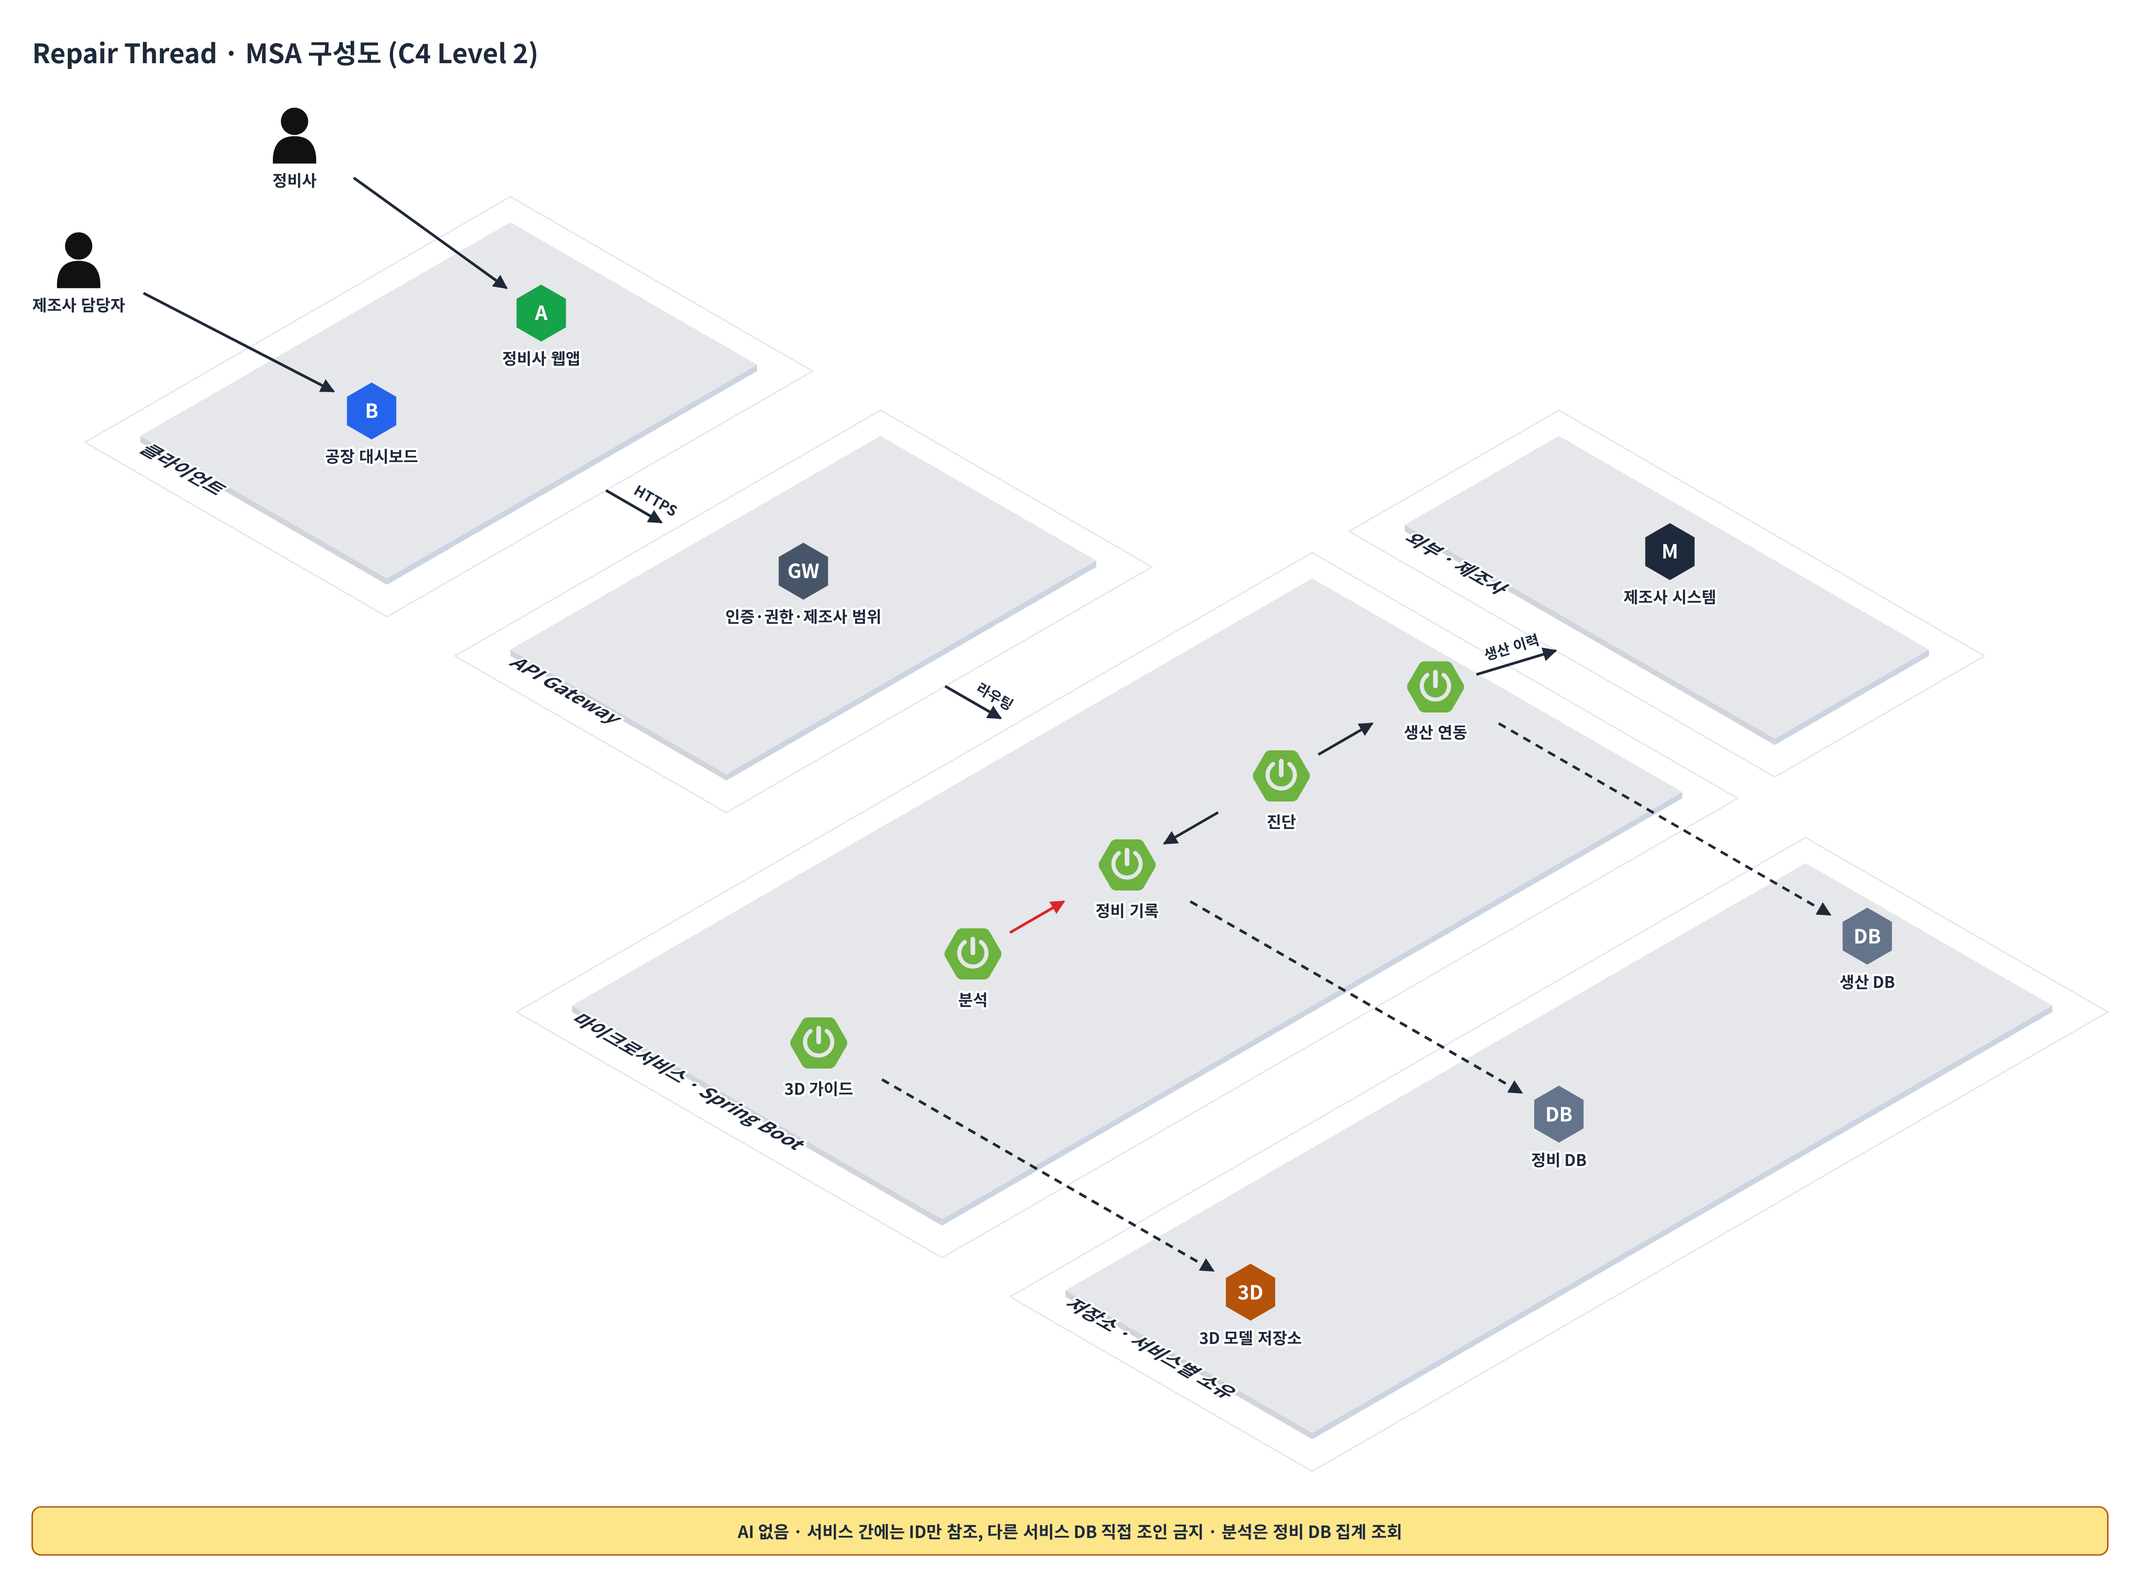
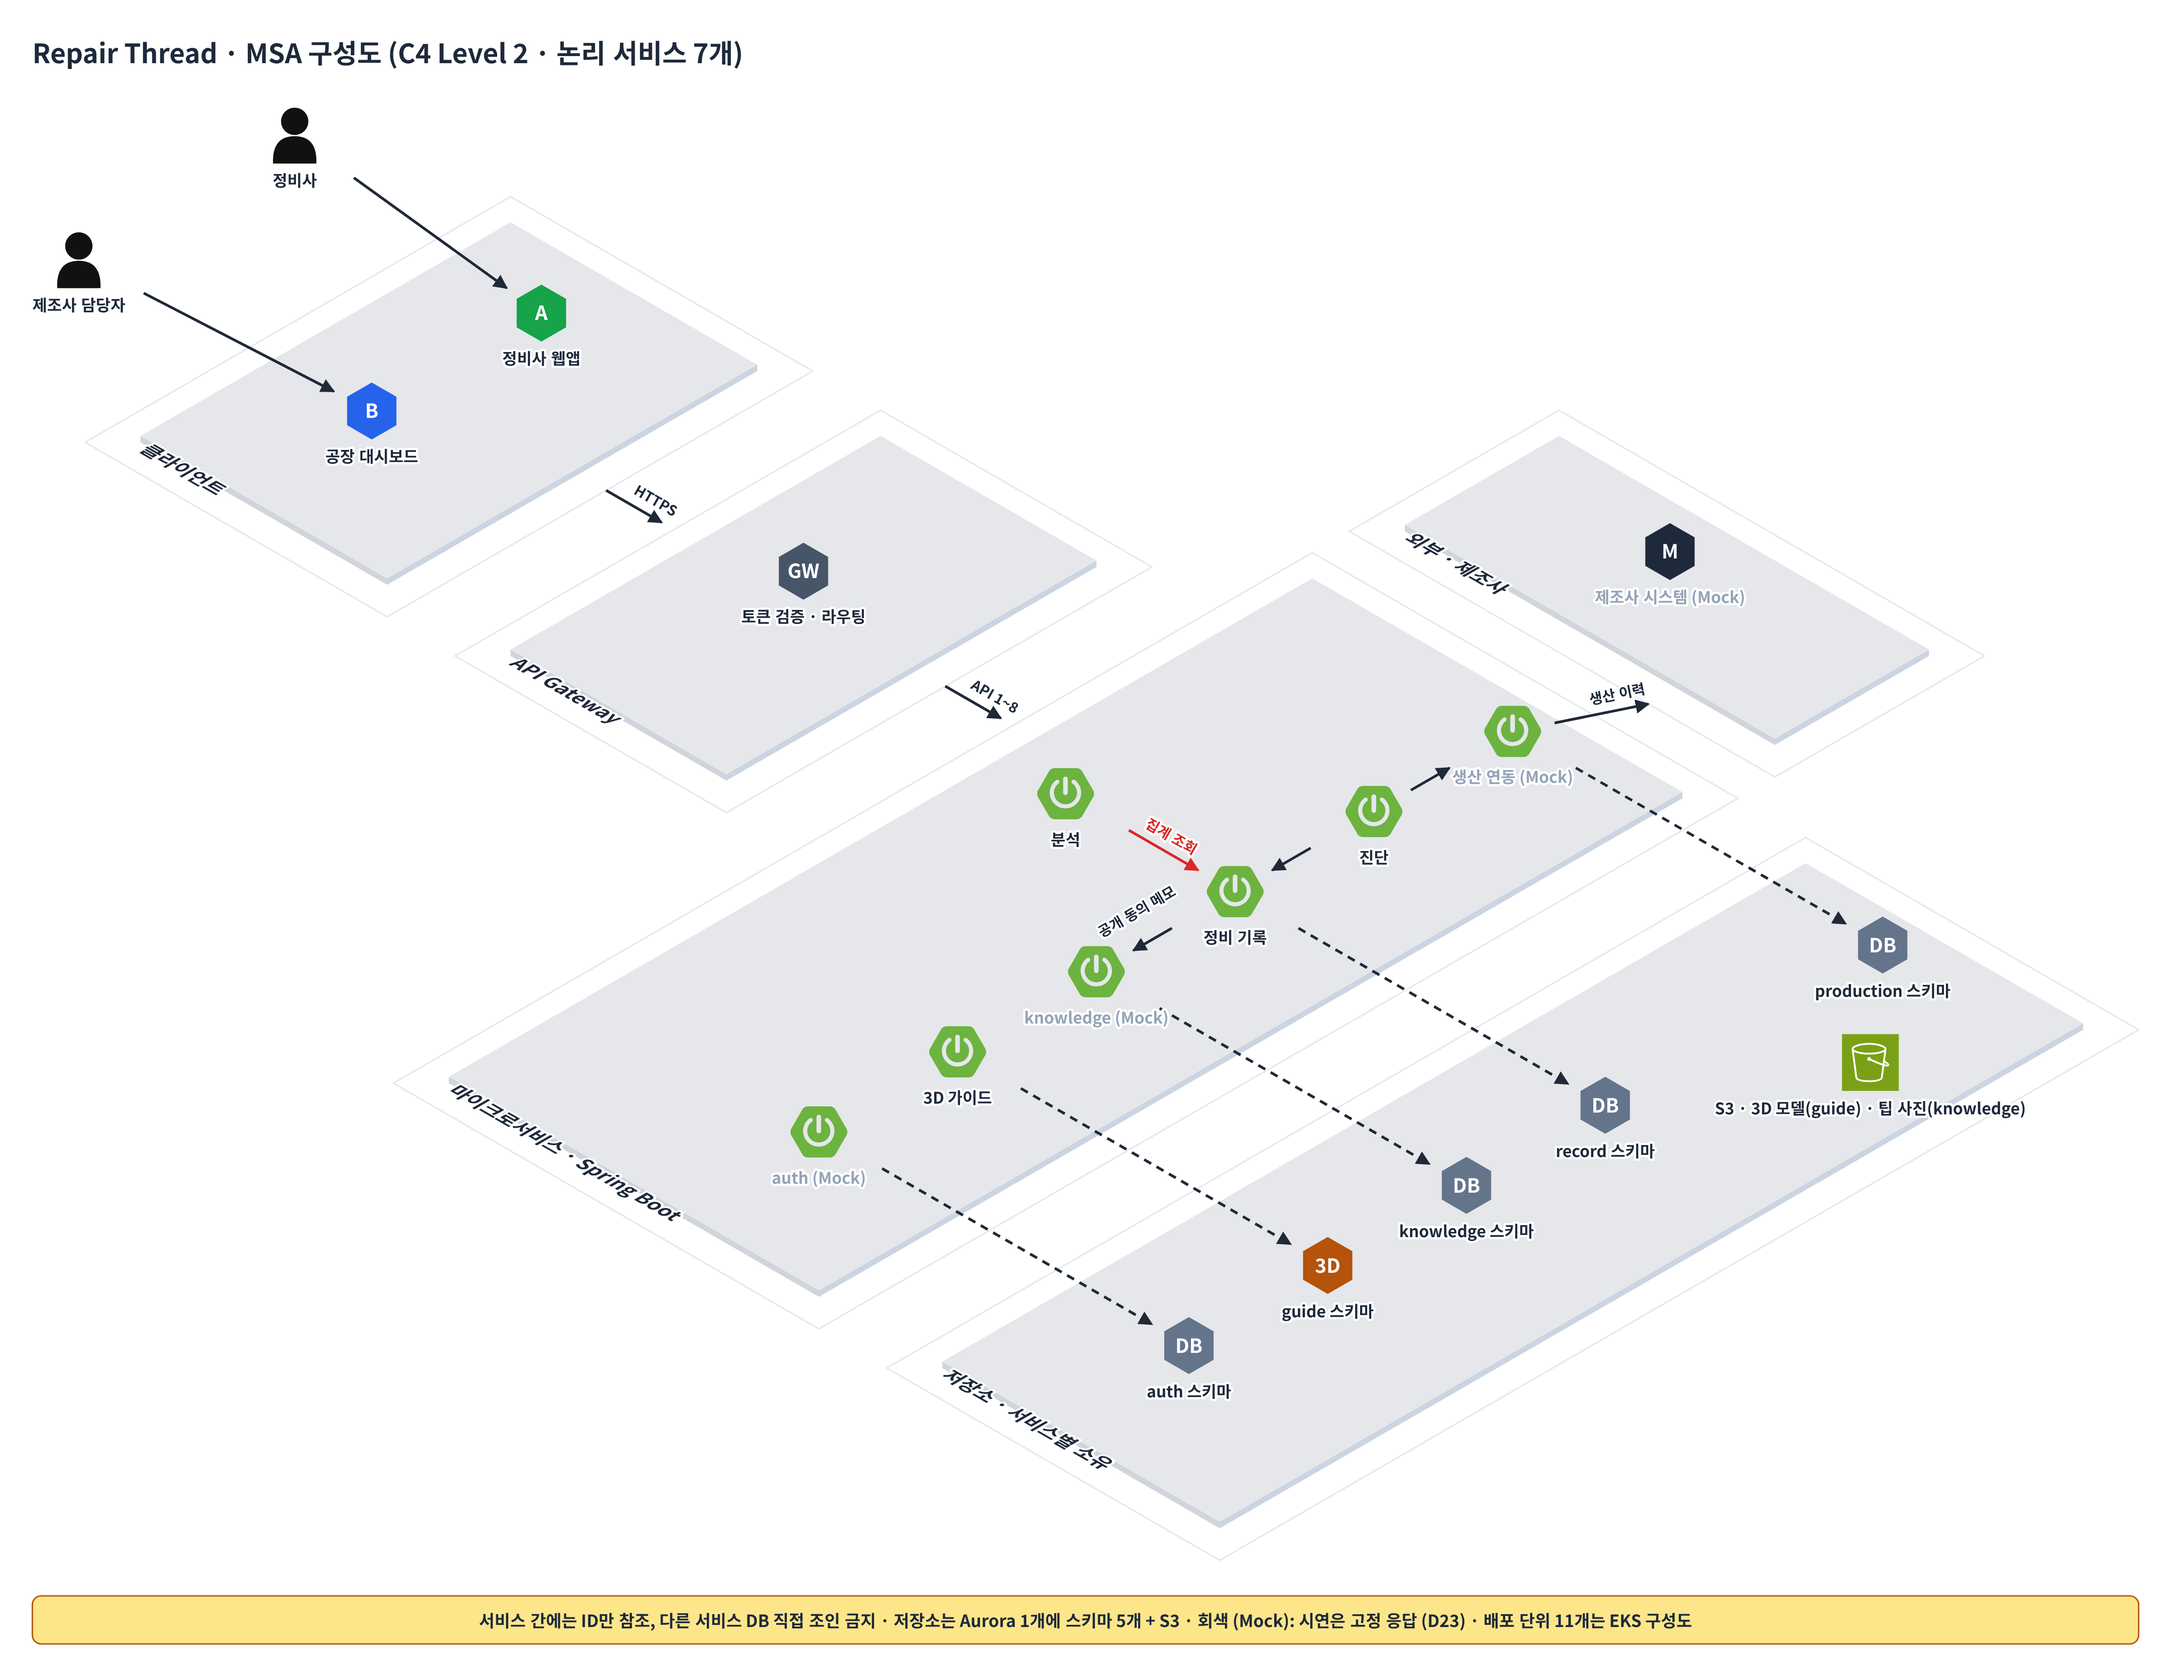
docs: MSA 구성도에 knowledge·auth와 Mock 구분 반영 (D22·D23)
- 논리 서비스 5개 → 7개 (knowledge, auth 추가), Gateway는 토큰 검증·라우팅
- 정비 기록 → knowledge(공개 동의 메모), 분석 → 정비 기록(집계 조회) 라벨
- 저장소를 서비스별 스키마 5개 + S3(3D 모델·팁 사진)로
- Mock 서비스는 회색 글자, 캡션에 범례. README 설명과 Mermaid 텍스트 버전 갱신

Closes #14

Claude-Session: https://claude.ai/code/session_014R51HkAxQNUEAujjDtMXPZ

diff --git a/README.md b/README.md
@@ -162,9 +162,11 @@ Tesla Model 3, 고장코드 B1A24 (리어 왼쪽 도어 래치, 예시 코드). 
 
 ### 아키텍처 (C4 Level 2)
 
-![MSA 구성도: 클라이언트, API Gateway, Spring Boot 마이크로서비스 5개, 서비스별 저장소, 외부 제조사 시스템](docs/images/architecture-msa.png)
+![MSA 구성도: 클라이언트, API Gateway, Spring Boot 마이크로서비스 7개(회색은 Mock), 서비스별 스키마와 S3, 외부 제조사 시스템](docs/images/architecture-msa.png)
 
-- 마이크로서비스 5개 (배포 단위로는 auth·knowledge를 더 나눠 11개, D22). 서비스 간에는 ID만 참조하고 다른 서비스 DB를 직접 조인하지 않음
+- 논리 서비스 7개: 진단, 3D 가이드, 정비 기록, 분석, 생산 연동에 auth와 knowledge를 나눔 (D22). 배포 단위는 웹앱 2개·Gateway·제조사 mock까지 11개
+- 회색 글자(auth, knowledge, 생산 연동, 제조사 시스템)는 시연에서 고정 응답 Mock (D23)
+- 서비스 간에는 ID만 참조하고 다른 서비스 DB를 직접 조인하지 않음. 저장소는 Aurora 클러스터 1개에 스키마 5개 + S3
 - 진단·분석은 자체 DB 없이 다른 서비스를 호출함 (분석은 정비 DB 집계 조회)
 - Spring Boot 계층: Controller → Application Service → Domain Service → Repository / External API Client
 - 프론트는 화면 코드가 `RepairThreadApi` 인터페이스에만 의존해서, 목 API를 HTTP 구현으로 바꾸면 백엔드에 그대로 붙음
@@ -176,16 +178,19 @@ Tesla Model 3, 고장코드 B1A24 (리어 왼쪽 도어 래치, 예시 코드). 
 flowchart TB
   MECH([정비사]) --> WEB[정비사 웹앱]
   ENG([제조사 담당자]) --> DASH[공장 대시보드]
-  WEB --> GW[API Gateway<br/>인증·권한·제조사 범위]
+  WEB --> GW[API Gateway<br/>토큰 검증·라우팅]
   DASH --> GW
-  GW --> DIAG[진단] & GUIDE[3D 가이드] & REC[정비 기록] & ANA[분석] & PI[생산 연동]
+  GW --> DIAG[진단] & GUIDE[3D 가이드] & REC[정비 기록] & ANA[분석] & PI[생산 연동 · Mock] & KN[knowledge · Mock] & AUTH[auth · Mock]
   DIAG --> PI
   DIAG --> REC
-  ANA --> REC
-  GUIDE -.-> MS[(3D 모델 저장소)]
-  REC -.-> RDB[(정비 DB)]
-  PI -.-> PDB[(생산 DB)]
-  PI --> EXT[제조사 시스템 · 외부]
+  ANA -->|집계 조회| REC
+  REC -->|공개 동의 메모| KN
+  GUIDE -.-> GDB[(guide 스키마 · 3D 모델 S3)]
+  KN -.-> KDB[(knowledge 스키마 · 팁 사진 S3)]
+  REC -.-> RDB[(record 스키마)]
+  PI -.-> PDB[(production 스키마)]
+  AUTH -.-> ADB[(auth 스키마)]
+  PI --> EXT[제조사 시스템 · 외부 · Mock]
 ```
 
 </details>
